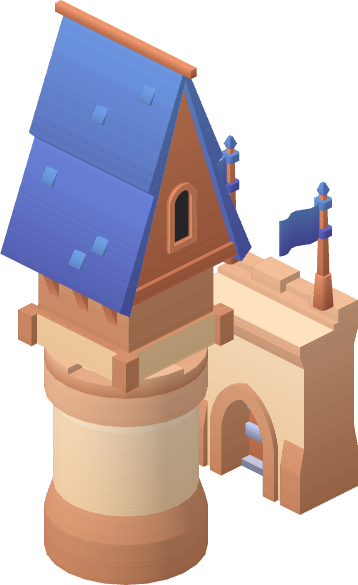
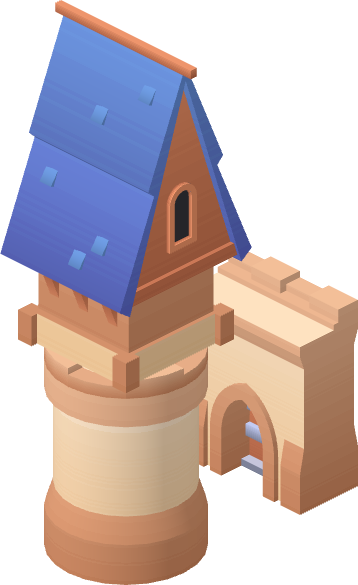
Wave the castle and tower flags in the wind
Flags are split off the building bodies into looping actors, drawn like the mill's blades; LOOPS covers all three.

diff --git a/src/data/villageMap.js b/src/data/villageMap.js
@@ -66,8 +66,11 @@ export const spriteFile = (name, facing) => `${name}_${facing}.png`
 // a designer sprite; ground tiles only have tier 1
 export const artFile = (id, tier, facing = 'N') => `buildings/${id}_t${tier}_${facing}.png`
 
-// the mill's spinning blades, an animated WebP; the same name in .png is its first frame
-export const bladeFile = (tier, facing) => `actors/mill_t${tier}_blades_spin_${facing}.webp`
+// Looping parts drawn on top of their building, rendered on their own by the
+// designer: the mill's blades and the castle's and tower's flags. Each is an
+// animated WebP; the same name in .png is its first frame.
+export const LOOPS = { mill: ['blades', 'spin'], castle: ['flags', 'wave'], tower: ['flags', 'wave'] }
+export const loopFile = (id, tier, facing) => `actors/${id}_t${tier}_${LOOPS[id].join('_')}_${facing}.webp`
 
 // where the ground is, below cellY: the centre of a level 0 block's top face
 export const GROUND_DY = PROJ.GROUND * SCALE - HALF
@@ -461,20 +464,21 @@ export function mapItems(rotation, tiers = {}, nextId = null) {
         state: '',
         id: def.id,
       })
-      // The mill's blades are their own looping sprite, drawn right on top of
-      // the bladeless body: same front cell, next in order.
-      if (def.id === 'mill') {
+      // A looping part (blades, flags) is its own sprite, drawn right on top of
+      // the body rendered without it: same front cell, next in order.
+      if (LOOPS[def.id]) {
+        const [part, clip] = LOOPS[def.id]
         objects.push({
-          key: 'mill.blades',
-          file: bladeFile(tier, FACES[r]),
-          ...anchoredBox(ACTORS[`mill_t${tier}_blades`].spin[FACES[r]], anchor[0], anchor[1]),
+          key: `${def.id}.${part}`,
+          file: loopFile(def.id, tier, FACES[r]),
+          ...anchoredBox(ACTORS[`${def.id}_t${tier}_${part}`][clip][FACES[r]], anchor[0], anchor[1]),
           a: front[0],
           b: front[1],
           level: 1,
           i: objects.length,
           state: '',
           id: def.id,
-          spin: true,
+          loop: true,
         })
       }
       // how far the image rises above the label cell, in stack levels
@@ -519,10 +523,11 @@ export function allSpriteFiles() {
   return [...FACES].flatMap((f) => [
     ...[...kit].map((n) => spriteFile(n, f)),
     ...art.map(([id, tier]) => artFile(id, tier, f)),
-    ...BUILDINGS.find((d) => d.id === 'mill').cost.flatMap((_, i) => {
-      const tier = i + 1
-      const webp = bladeFile(tier, f)
-      return [webp, webp.replace(/webp$/, 'png')] // the png is the still, for reduced motion
-    }),
+    ...BUILDINGS.filter((d) => LOOPS[d.id]).flatMap((d) =>
+      d.cost.flatMap((_, i) => {
+        const webp = loopFile(d.id, i + 1, f)
+        return [webp, webp.replace(/webp$/, 'png')] // the png is the still, for reduced motion
+      }),
+    ),
   ])
 }

diff --git a/src/data/villageMap.check.js b/src/data/villageMap.check.js
@@ -7,7 +7,7 @@ import { dirname, join } from 'node:path'
 import { BUILDINGS } from './buildings.js'
 import SPRITES from './villageSprites.json' with { type: 'json' }
 import {
-  PROJ, SCALE, HALF, LIFT, GROUND_DY, CONNECTS, PLOTS, DECOR, TILES, DOORS, SPURS, PATH_COL, PATH_ROW, doorCell,
+  PROJ, SCALE, HALF, LIFT, GROUND_DY, CONNECTS, PLOTS, DECOR, TILES, DOORS, SPURS, PATH_COL, PATH_ROW, doorCell, LOOPS,
   allSpriteFiles, artBox, cellX, cellY, groundAt, mapItems, rotCell, rotFace, rotOffset,
   spriteX, spriteY,
 } from './villageMap.js'
@@ -215,13 +215,16 @@ for (const [key, meta] of Object.entries(SPRITES)) {
 }
 const missing = allSpriteFiles().filter((f) => !existsSync(join(dir, f)))
 assert.deepEqual(missing, [], 'sprite files present in public/village')
-// the mill's blades: drawn right after the mill, and their files are in that list
-for (let r = 0; r < 4; r++) {
-  for (let t = 1; t <= 3; t++) {
-    const keys = mapItems(r, { mill: t }).objects.map((o) => o.key)
-    assert.equal(keys[keys.indexOf('mill') + 1], 'mill.blades', `blades follow the mill at r${r} t${t}`)
-    const file = `actors/mill_t${t}_blades_spin_${'NESW'[r]}`
-    assert.ok(allSpriteFiles().includes(file + '.webp') && allSpriteFiles().includes(file + '.png'), file)
+// the mill's blades and the flags: drawn right after their building, and their
+// files are in that list
+for (const [id, [part, clip]] of Object.entries(LOOPS)) {
+  for (let r = 0; r < 4; r++) {
+    for (let t = 1; t <= 3; t++) {
+      const keys = mapItems(r, { [id]: t }).objects.map((o) => o.key)
+      assert.equal(keys[keys.indexOf(id) + 1], `${id}.${part}`, `${part} follow the ${id} at r${r} t${t}`)
+      const file = `actors/${id}_t${t}_${part}_${clip}_${'NESW'[r]}`
+      assert.ok(allSpriteFiles().includes(file + '.webp') && allSpriteFiles().includes(file + '.png'), file)
+    }
   }
 }
 // the wood is generated: it must exist, stay on the land and never double up

diff --git a/src/components/VillageMap.vue b/src/components/VillageMap.vue
@@ -60,12 +60,12 @@ const sprite = (s) => ({
 })
 
 const ground = computed(() => items.value.ground.map((s) => ({ ...s, box: sprite(s) })))
-// reduced motion: the mill's blades stand still, on their first frame
+// reduced motion: the mill's blades and the flags stand still, on their first frame
 const still = window.matchMedia?.('(prefers-reduced-motion: reduce)').matches
 const objects = computed(() =>
   items.value.objects.map((s, i) => ({
     ...s,
-    file: s.spin && still ? s.file.replace(/\.webp$/, '.png') : s.file,
+    file: s.loop && still ? s.file.replace(/\.webp$/, '.png') : s.file,
     // walkers slot in between, on the odd z-indexes (see VillageLife)
     box: { ...sprite(s), zIndex: 2 * (i + 1) },
     lit: s.id && s.id === selected.value,
